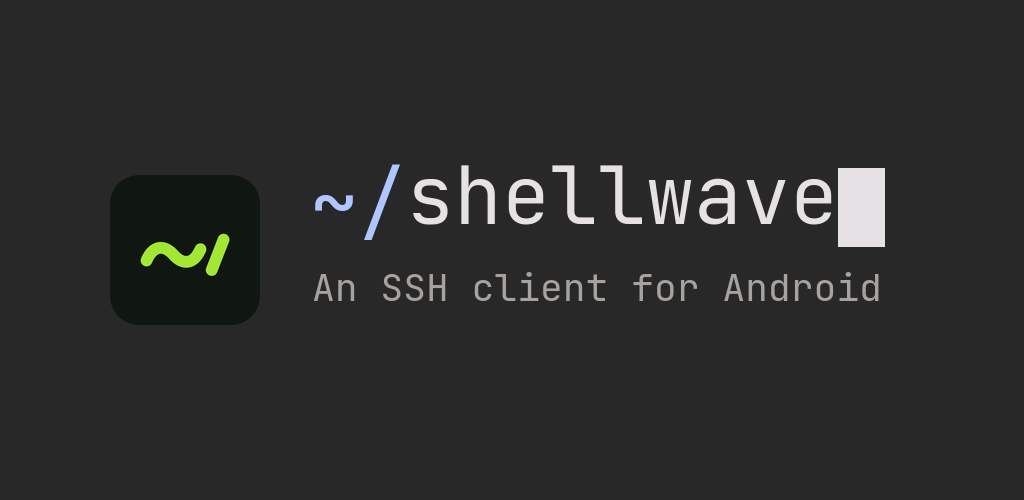
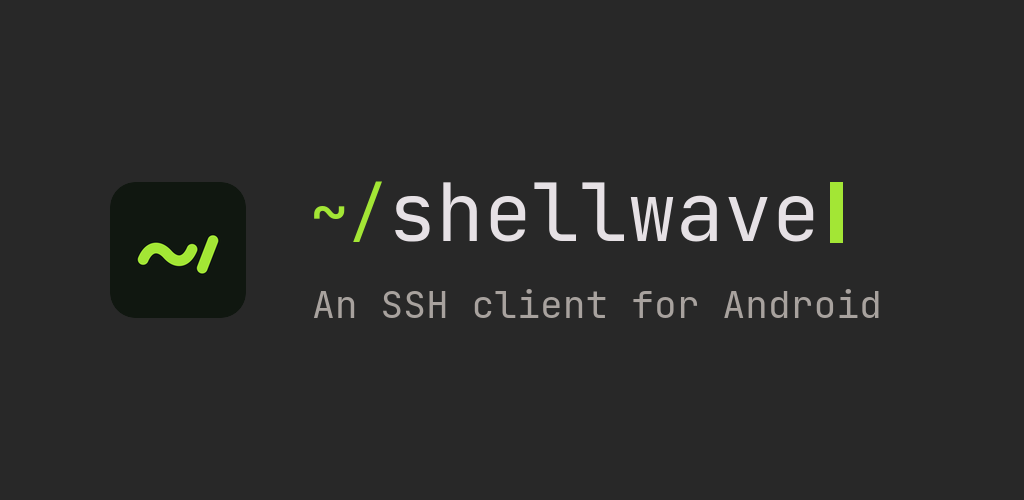
docs: add feature graphic to readme

diff --git a/README.md b/README.md
@@ -1,12 +1,8 @@
 <h1 align="center">
-  <img src="fastlane/metadata/android/en-US/images/icon.png" width="128" alt="Shellwave app icon">
-  <br>
-  ~/Shellwave
+  <img src="fastlane/metadata/android/en-US/images/featureGraphic.png" width="640" alt="Shellwave - an SSH client for Android">
 </h1>
 
 <p align="center">
-  An SSH client for Android
-  <br>
   Built because every mobile SSH client makes you choose between convenient and trustworthy,
   and that's a stupid choice.
   <br>
@@ -36,10 +32,10 @@
 ## Screenshots
 
 <p>
-  <img src="fastlane/metadata/android/en-US/images/phoneScreenshots/01_terminal.png" width="205" alt="A session tailing a coloured log, with three session tabs above it">
-  <img src="fastlane/metadata/android/en-US/images/phoneScreenshots/02_hosts.png" width="205" alt="The host list with a quick-connect field">
-  <img src="fastlane/metadata/android/en-US/images/phoneScreenshots/04_ansi_truecolour.png" width="205" alt="16-colour, 256-colour and 24-bit ramps rendered in a session">
-  <img src="fastlane/metadata/android/en-US/images/phoneScreenshots/06_per_host_settings.png" width="205" alt="Per-host settings: tmux reattach, profile and colour scheme overrides, key bar, ProxyJump">
+  <img src="assets/screenshots/terminal.png" width="205" alt="A session tailing a coloured log, with three session tabs above it">
+  <img src="assets/screenshots/hosts.png" width="205" alt="The host list with a quick-connect field">
+  <img src="assets/screenshots/ansi-truecolour.png" width="205" alt="16-colour, 256-colour and 24-bit ramps rendered in a session">
+  <img src="assets/screenshots/per-host-settings.png" width="205" alt="Per-host settings: tmux reattach, profile and colour scheme overrides, key bar, ProxyJump">
 </p>
 
 Unfolded, the session list and the terminal share the screen; collapsing the split gives the
